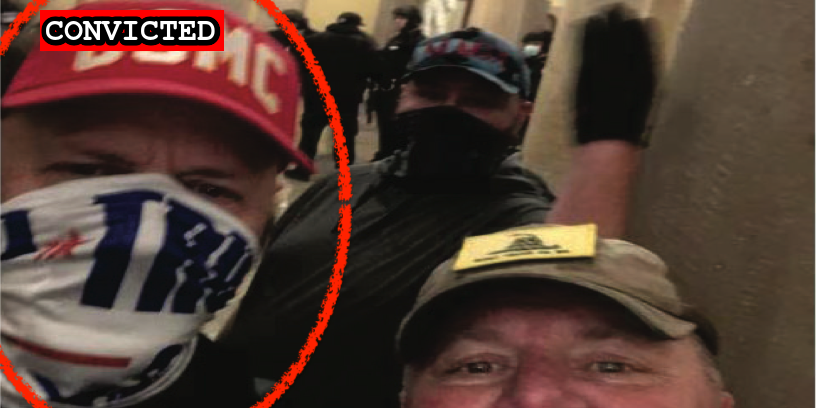
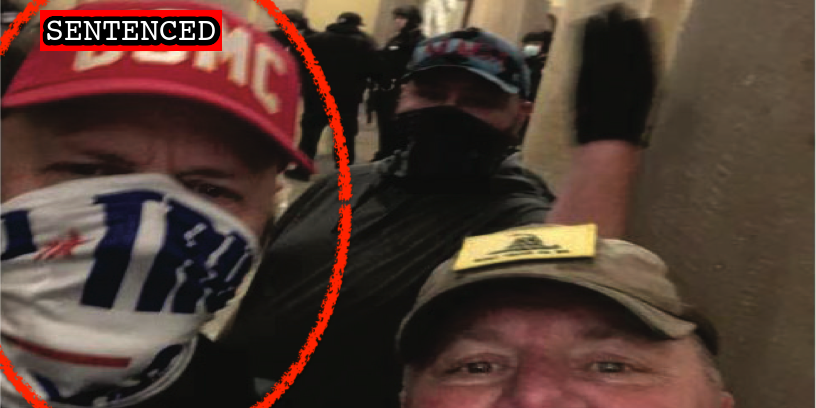
Latest import

Changed region(s): [[0.0306, 0.0294, 0.2757, 0.1176]]

diff --git a/docs/_suspects/richard-barnard.md b/docs/_suspects/richard-barnard.md
@@ -4,12 +4,12 @@ lastName: Barnard
 hashtag: RichardBarnard
 aka:
 residence: Texas
-status: Convicted
+status: Sentenced
 date: 2021-02-24
 charged: 2021-02-24
 indicted: 2021-03-19
 convicted: 2021-10-20
-sentenced:
+sentenced: 2022-02-04
 dismissed:
 deceased:
 plea_hearing: 2021-10-20
@@ -34,13 +34,19 @@ published: true
 caseNumber: 1:21-cr-235
 videos:
 charges:
-- code: 18 USC § 5104(e)(2)(G)
-  title: Parading, demonstrating or picketing in a Capitol building
-  url: https://www.law.cornell.edu/uscode/text/40/5104
-  felony: false
+  - code: 18 USC § 5104(e)(2)(G)
+    title: Parading, demonstrating or picketing in a Capitol building
+    url: https://www.law.cornell.edu/uscode/text/40/5104
+    felony: false
 sentence:
+  - 30 days home detention
+  - 12 months probation
+  - $500 restitution
 ---
+
 - [News Report](https://www.dailymail.co.uk/news/article-9360743/Two-men-charged-Capitol-riot-posted-video-claiming-crashed-White-House.html)
 - [Statement of Facts](https://www.justice.gov/usao-dc/case-multi-defendant/file/1443876/download)
 - [Indictment](https://www.justice.gov/usao-dc/case-multi-defendant/file/1378236/download)
 - [Plea Agreement](https://www.justice.gov/usao-dc/case-multi-defendant/file/1443871/download)
+- [Sentencing Memo](https://extremism.gwu.edu/sites/g/files/zaxdzs2191/f/Dawn%20Bancroft%20Defense%20Sentencing%20Memorandum.pdf)
+- [Judgement](https://extremism.gwu.edu/sites/g/files/zaxdzs2191/f/Richard%20Franklin%20Barnard%20Judgment.pdf)

diff --git a/docs/_suspects/john-juran.md b/docs/_suspects/john-juran.md
@@ -4,16 +4,16 @@ lastName: Juran
 hashtag: JohnJuran
 aka: Jack Juran
 residence: New York
-status: Convicted
+status: Sentenced
 date: 2021-04-21
 charged: 2021-04-21
 indicted:
 convicted: 2021-12-01
-sentenced:
+sentenced: 2022-03-03
 dismissed:
 deceased:
 plea_hearing: 2021-12-01
-sentencing: 2022-02-23
+sentencing: 2022-03-03
 age: 51
 occupation:
 affiliations:
@@ -39,9 +39,14 @@ charges:
     url: https://www.law.cornell.edu/uscode/text/40/5104
     felony: false
 sentence:
+  - 60 days home detention
+  - 3 years probation
+  - $500 restitution
 ---
 
 - [News Report](https://lawandcrime.com/u-s-capitol-siege/feds-arrest-new-york-man-seen-wearing-trump-2020-cowboy-hat-during-u-s-capitol-breach/)
 - [Statement of Facts](https://www.justice.gov/usao-dc/case-multi-defendant/file/1452921/download)
 - [Information](https://www.justice.gov/usao-dc/case-multi-defendant/file/1410416/download)
 - [Plea Agreement](https://www.justice.gov/usao-dc/case-multi-defendant/file/1452916/download)
+- [Sentencing Memo](https://extremism.gwu.edu/sites/g/files/zaxdzs2191/f/John%20Juran%20Defense%20Sentencing%20Memorandum.pdf)
+- [Judgement](https://extremism.gwu.edu/sites/g/files/zaxdzs2191/f/John%20Juran%20Judgment.pdf)

diff --git a/docs/_suspects/dawn-bancroft.md b/docs/_suspects/dawn-bancroft.md
@@ -34,15 +34,15 @@ published: true
 caseNumber: 1:21-cr-271
 videos:
 charges:
-  - code: 18 USC § 5104(e)(2)(G)
-    title: Parading, demonstrating or picketing in a Capitol building
-    url: https://www.law.cornell.edu/uscode/text/40/5104
-    felony: false
+- code: 18 USC § 5104(e)(2)(G)
+  title: Parading, demonstrating or picketing in a Capitol building
+  url: https://www.law.cornell.edu/uscode/text/40/5104
+  felony: false
 sentence:
 ---
-
 - [News Report](https://www.mcall.com/news/police/mc-nws-pennsylvania-women-charged-in-capitol-siege-20210130-zsgjdrfdibgpboyuatcphtlaxq-story.html)
 - [Complaint](https://www.justice.gov/opa/page/file/1362581/download)
 - [Statement of Facts](https://www.justice.gov/usao-dc/case-multi-defendant/file/1438246/download)
 - [Information](https://www.justice.gov/usao-dc/case-multi-defendant/file/1383056/download)
 - [Plea Agreement](https://www.justice.gov/usao-dc/case-multi-defendant/file/1438241/download)
+- [Sentencing Memo](https://extremism.gwu.edu/sites/g/files/zaxdzs2191/f/Dawn%20Bancroft%20Defense%20Sentencing%20Memorandum.pdf)

diff --git a/docs/_suspects/bryan-ivey.md b/docs/_suspects/bryan-ivey.md
@@ -45,3 +45,4 @@ sentence:
 - [Statement of Facts](https://www.justice.gov/usao-dc/case-multi-defendant/file/1378881/download)
 - [Information](https://www.justice.gov/usao-dc/case-multi-defendant/file/1383061/download)
 - [Plea Agreement](https://www.justice.gov/usao-dc/case-multi-defendant/file/1405631/download)
+- [Sentencing Memo](https://extremism.gwu.edu/sites/g/files/zaxdzs2191/f/Bryan%20Wayne%20Ivey%20Defense%20Sentencing%20Memorandum.pdf)

diff --git a/docs/_suspects/michael-orangias.md b/docs/_suspects/michael-orangias.md
@@ -44,3 +44,4 @@ sentence:
 - [Statement of Facts](https://www.justice.gov/usao-dc/case-multi-defendant/file/1430231/download)
 - [Information](https://www.justice.gov/usao-dc/case-multi-defendant/file/1393706/download)
 - [Plea Agreement](https://www.justice.gov/usao-dc/case-multi-defendant/file/1430226/download)
+- [Sentencing Memo](https://extremism.gwu.edu/sites/g/files/zaxdzs2191/f/Michael%20Orangias%20Defense%20Sentencing%20Memorandum.pdf)
